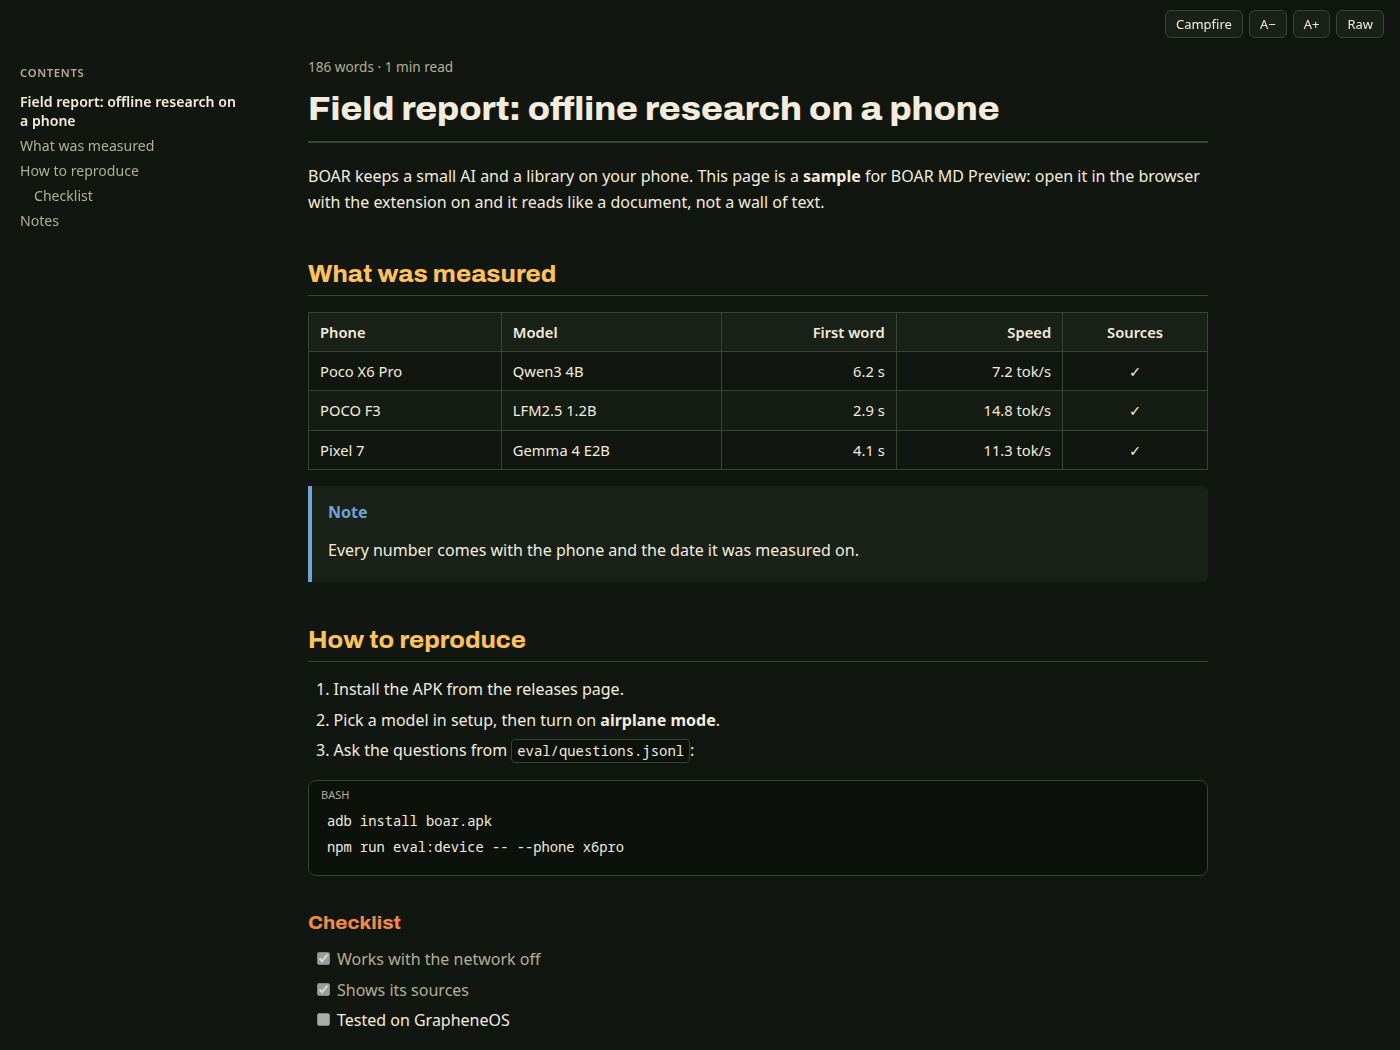
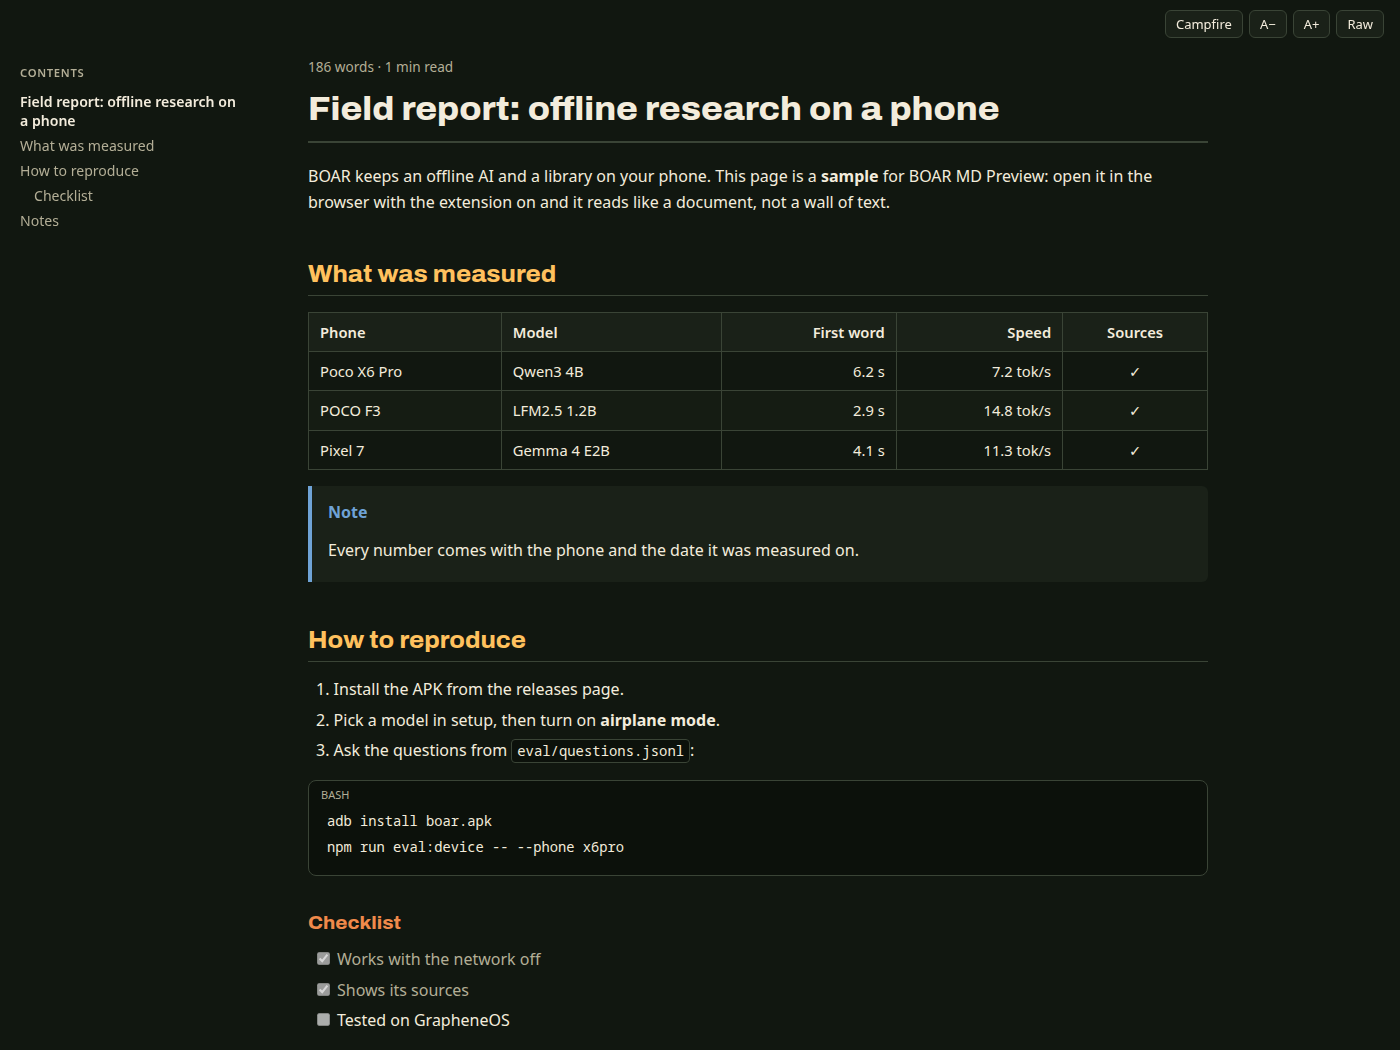
docs: sample and screenshots say offline AI

Changed region(s): [[0.215, 0.1524, 0.86, 0.2133]]

diff --git a/docs/sample.md b/docs/sample.md
@@ -1,6 +1,6 @@
 # Field report: offline research on a phone
 
-BOAR keeps a small AI and a library on your phone. This page is a **sample** for BOAR MD Preview: open it in the browser with the extension on and it reads like a document, not a wall of text.
+BOAR keeps an offline AI and a library on your phone. This page is a **sample** for BOAR MD Preview: open it in the browser with the extension on and it reads like a document, not a wall of text.
 
 ## What was measured
 
